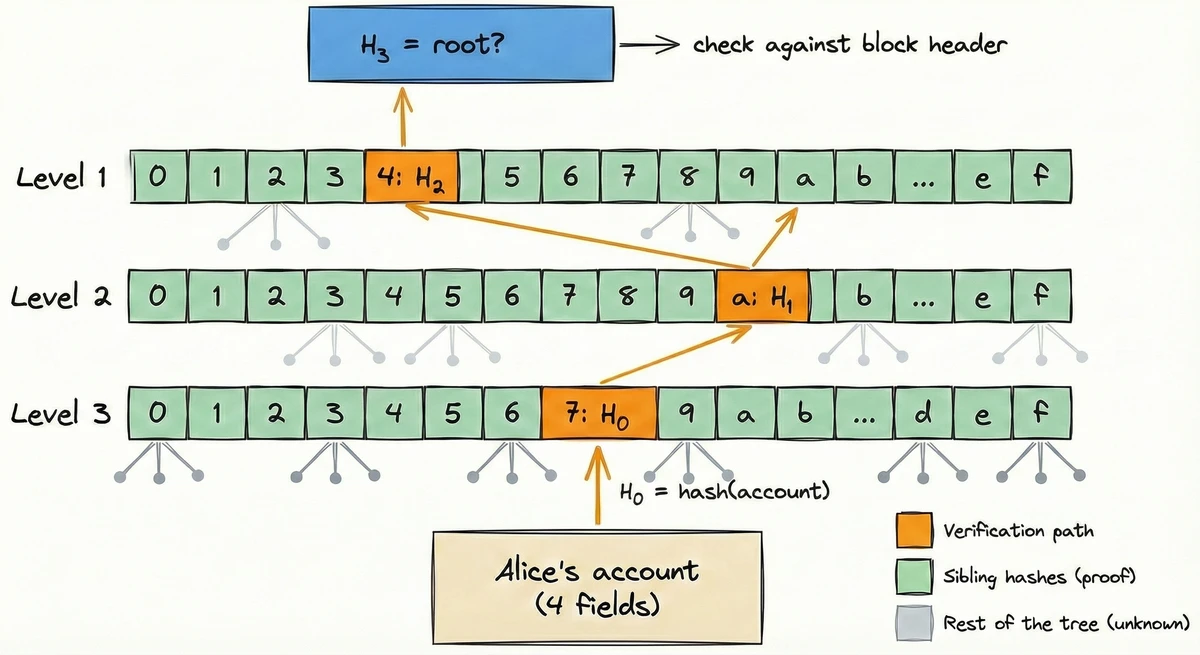
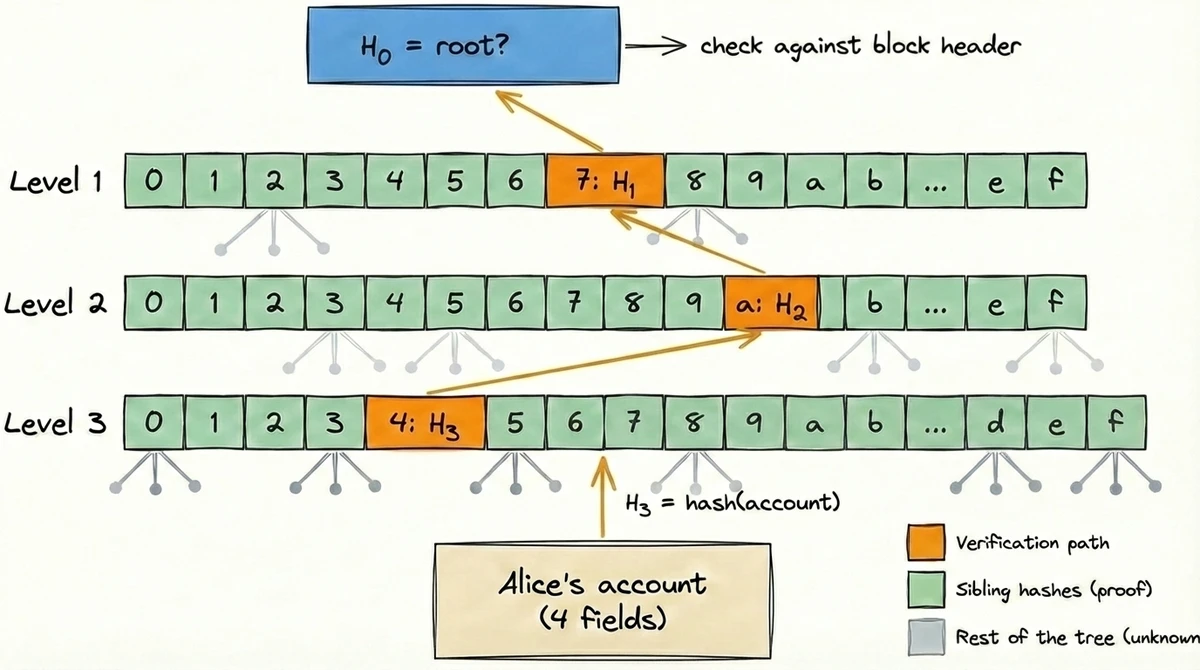
Fix factual errors and update Merkle proof diagram in MPT post
Key corrections: trie keys are keccak256-hashed addresses (depth 64,
not 40), keccak256 is pre-standardization SHA-3 (not a variant),
nonce/codeHash/storageRoot descriptions now accurate for both account
types, proof indexing consistent between formal math and walkthrough,
worst-case proof size updated to ~30 KB, Verkle proof size corrected
to <150 bytes, ~3 KB citation repointed to EIP spec. Also: "hard fork"
→ "network upgrade", timeline hedge, and regenerated merkle-proof.webp
with corrected H₀–H₃ labeling.

diff --git a/content/blog/ethereum-merkle-patricia-trie.md b/content/blog/ethereum-merkle-patricia-trie.md
@@ -15,7 +15,7 @@ social_media_card = "/img/merkle-patricia-trie-banner.webp"
 
 Ethereum is the second-largest blockchain by market cap, securing hundreds of billions of dollars in value. Everyone knows it's a distributed ledger. But how does it actually store all that data? Hundreds of millions of accounts. Smart contracts with their own persistent storage: token balances, NFT ownership records, DeFi positions. Over 100 GB of state, replicated across nearly a million validators worldwide, growing every day. The answer is a data structure called the Merkle Patricia Trie.
 
-That's about to change. The [Hegota hard fork](https://ethereum-magicians.org/t/eip-8081-hegota-network-upgrade-meta-thread/26876) (EIP-8081), currently in planning, aims to migrate Ethereum's state to a new structure called Verkle trees. It would be the biggest change to how Ethereum represents state since genesis. But to understand why it's being considered, we first need to understand what's there today, and why it's hitting its limits.
+That may soon change. The [Hegota network upgrade](https://ethereum-magicians.org/t/eip-8081-hegota-network-upgrade-meta-thread/26876) (EIP-8081), currently in planning, aims to migrate Ethereum's state to a new structure called Verkle trees. It would be the biggest change to how Ethereum represents state since genesis. But to understand why it's being considered, we first need to understand what's there today, and why it's hitting its limits.
 
 ## The World State
 
@@ -23,10 +23,10 @@ Ethereum maintains a **world state**: a key-value store where each key is an add
 
 There are two account types. **Externally owned accounts** (EOAs) are controlled by private keys and can initiate transactions. **Contract accounts** hold code and are triggered by transactions. Both types share the same four data fields:
 
-- **nonce**: a counter that increments with each transaction
+- **nonce**: for EOAs, the number of transactions sent; for contracts, the number of contracts created
 - **balance**: native ETH held[^1]
-- **codeHash**: hash of the account's bytecode (empty for EOAs)
-- **storageRoot**: hash pointing to the contract's storage (empty for EOAs)
+- **codeHash**: hash of the account's bytecode (hash of empty bytecode for EOAs)
+- **storageRoot**: hash pointing to the contract's storage (empty trie hash for EOAs)
 
 Contracts separate storage from code. Storage (token balances, ownership records, configuration) lives in its own key-value store, nested within the world state via `storageRoot`. Code is stored on-chain but outside the world state, referenced by `codeHash`. We'll revisit this nested storage when we discuss proofs.
 
@@ -50,17 +50,17 @@ A tree fixes this. Each node's hash is computed from its children's hashes. Chan
 
 Alice wants to check her balance without trusting anyone. She can't store 100+ GB of state. With a flat key-value store, the only way to verify a value is to recompute the commitment yourself, which requires having the entire state.
 
-A tree fixes this too. To prove a value exists, the prover provides the path from that leaf to the root, plus enough information (a proof) at each level to recompute the hashes. Alice (the verifier) can then reconstructs the root hash from this small proof and checks it against the known root. We'll see exactly how this works when we discuss proofs.
+A tree fixes this too. To prove a value exists, the prover provides the path from that leaf to the root, plus enough information (a proof) at each level to recompute the hashes. Alice (the verifier) can then reconstruct the root hash from this small proof and checks it against the known root. We'll see exactly how this works when we discuss proofs.
 
 ## Tries: Keys as Paths
 
 We've established that we need a tree. So we have a key-value store (addresses → accounts) to organize into a tree. How? By using a **trie** (pronounced "try," from re**trie**val).
 
-**A trie uses the key itself as the path through the tree.** Each character in the key determines which branch to take. For an address like `0x4a7f...`, you start at the root, branch on `4`, then `a`, then `7`, then `f`, and so on until you reach the account data. You don't store keys explicitly; the path *is* the key.
+**A trie uses the key itself as the path through the tree.** Each character in the key determines which branch to take. For a hex key like `4a7f...`, you start at the root, branch on `4`, then `a`, then `7`, then `f`, and so on until you reach the stored value. You don't store keys explicitly; the path *is* the key.
 
-<img src="/img/trie-structure.webp" alt="A hexary trie where addresses become paths: the root branches on hex digits, and following the digits of an address leads to the account data at the leaves. An extension node compresses a chain of single-child branches into one node (the Patricia optimization).">
+<img src="/img/trie-structure.webp" alt="A hexary trie where hashed addresses become paths: the root branches on hex digits, and following the digits of a hashed address leads to the account data at the leaves. An extension node compresses a chain of single-child branches into one node (the Patricia optimization).">
 
-Ethereum uses a **hexary** trie: one child per hex digit (0-F), giving a maximum **width** of 16. The **depth** depends on key length. An Ethereum address is 20 bytes (40 hex characters), so the world state trie has a maximum depth of 40. Contract storage tries (referenced by `storageRoot`) use 32-byte keys (64 hex characters), so their maximum depth is 64. The **Patricia** variant used by Ethereum compresses the trie by collapsing chains of nodes that have only one child into a single node.
+Ethereum uses a **hexary** trie: one child per hex digit (0-F), giving a maximum **width** of 16. The **depth** depends on key length. Before insertion, each address is hashed with keccak256, producing a 32-byte key (64 hex digits). This prevents attackers from crafting addresses that create pathologically unbalanced branches. Contract storage keys are hashed the same way. Both tries have a maximum depth of 64. The **Patricia** variant used by Ethereum compresses the trie by collapsing chains of nodes with only one child into a single node (aka extension node).
 
 ## Merkle Patricia Tries
 
@@ -68,7 +68,7 @@ We have the trie structure. Now we can add the **Merkle** part.
 
 In a plain trie, each node represents a hex digit in the key. In a Merkle trie, **each node also has a hash computed from its children's hashes**. Change any leaf, and every node on the path to the root gets a new hash.
 
-How is each node's hash computed? For a branch node, combine references to all 16 children (empty for missing children) and hash the result with keccak256, Ethereum's hash function (a variant of SHA-3). The output is a single 32-byte hash.
+How is each node's hash computed? For a branch node, combine references to all 16 children (empty for missing children) and hash the result with keccak256, Ethereum's hash function (the pre-standardization version of what became SHA-3). The output is a single 32-byte hash.
 
 <img src="/img/merkle-hash-propagation.webp" alt="Merkle tree showing hash propagation: each parent's hash is computed from its children's hashes, with color-coded levels showing the recursive pattern">
 
@@ -76,7 +76,7 @@ The root hash commits to the entire state, which goes into every block header. A
 
 Why does this work? **Collision resistance**. It's computationally infeasible to find two different states that produce the same keccak256 root. The root hash uniquely identifies the state.
 
-The actual Ethereum implementation is more complex: RLP encoding to serialize nodes before hashing, three node types (branch, leaf, and extension) where extension nodes implement the Patricia compression.
+The actual Ethereum implementation is more complex: RLP encoding to serialize nodes before hashing, different arrays for different node types (branch, leaf, and extension), flags for even/odd path lengths.
 
 <details>
 <summary>More on the implementation</summary>
@@ -101,7 +101,7 @@ The Merkle structure offers an alternative. Alice (**the verifier**) stores just
 
 ### Proof and Verification
 
-Consider a trie of depth $d$ and a path $k = (k_0, k_1, \ldots, k_{d-1})$ where each $k_i$ is a hex digit in the account's address. To prove the value at this path, the prover provides:
+Consider a trie of depth $d$ and a path $k = (k_0, k_1, \ldots, k_{d-1})$ where each $k_i$ is a hex digit in the account's hashed key. To prove the value at this path, the prover provides:
 
 - The leaf value $v$ (all four account fields)
 - At each depth $i$, up to 15 sibling hashes $S_i = \lbrace h_{i,j} : j \neq k_i \rbrace$
@@ -121,13 +121,13 @@ If $H_0$ matches the state root, the proof is valid. Note that the prover must s
 <details>
 <summary>Walkthrough</summary>
 
-For address `0x4a7...`, the path is $k = (4, a, 7)$. The proof contains Alice's account data plus up to 45 sibling hashes (15 at each of the 3 levels). Verification proceeds bottom-up:
+Suppose hashing Alice's address produces a key starting with `7a4...`. In a simplified 3-level trie, the path is $k = (7, a, 4)$. The proof contains Alice's account data plus up to 45 sibling hashes (15 at each of the 3 levels). Verification proceeds bottom-up:
 
-1. Hash the account data → $H_0$
-2. Slot $H_0$ into position 7 among its siblings, hash all 16 → $H_1$
-3. Slot $H_1$ into position `a` among its siblings, hash all 16 → $H_2$
-4. Slot $H_2$ into position `4` among its siblings, hash all 16 → $H_3$
-5. Check: does $H_3$ match the state root in the block header?
+1. Hash the account data → $H_3$
+2. Slot $H_3$ into position `4` among its siblings, hash all 16 → $H_2$
+3. Slot $H_2$ into position `a` among its siblings, hash all 16 → $H_1$
+4. Slot $H_1$ into position `7` among its siblings, hash all 16 → $H_0$
+5. Check: does $H_0$ match the state root in the block header?
 
 </details>
 
@@ -145,7 +145,7 @@ Currently the world state [grows by roughly a gigabyte per week](https://www.the
 
 But what if validators didn't store state at all? Instead of reading from disk, they could receive proofs for every value a block touches. The same trick Alice used, scaled up.
 
-The problem is proof size. Each proof requires sibling hashes at every level: 15 siblings × 40 levels × 32 bytes ≈ 19 KB worst case, [\~3 KB on average](https://vitalik.eth.limo/general/2021/06/18/verkle.html). With current blocks using [\~30M gas](https://etherscan.io/chart/gasused) and cold state reads costing [2100 gas each](https://eips.ethereum.org/EIPS/eip-2929),[^2] a block easily touches thousands of values. At \~3 KB average, that's several MB of additional bandwidth per block. 10 MB incremental network I/O per block would be over 2 TB/month per validator: the kind of overhead that pushes solo stakers toward data centers.
+The problem is proof size. Each proof requires sibling hashes at every level: 15 siblings × 64 levels × 32 bytes ≈ 30 KB worst case, [\~3 KB on average](https://notes.ethereum.org/@vbuterin/verkle_tree_eip). With current blocks using [\~30M gas](https://etherscan.io/chart/gasused) and cold state reads costing [2100 gas each](https://eips.ethereum.org/EIPS/eip-2929),[^2] a block easily touches thousands of values. At \~3 KB average, that's several MB of additional bandwidth per block. 10 MB incremental network I/O per block would be over 2 TB/month per validator: the kind of overhead that pushes solo stakers toward data centers.
 
 So proof size is a binding constraint. Shrink the proofs, and stateless validation becomes more viable.
 
@@ -153,7 +153,7 @@ So proof size is a binding constraint. Shrink the proofs, and stateless validati
 
 ## What's Next
 
-Enter Verkle trees, the structure proposed for the Hegota hard fork. They replace sibling hashes with **polynomial commitments**, shrinking proofs from several KB to around 100 bytes each.
+Enter Verkle trees, the structure proposed for the Hegota network upgrade. They replace sibling hashes with **polynomial commitments**, shrinking proofs from several KB to less than 150 bytes each.
 
 Part 2 will cover how Verkle trees work and the cryptography behind them: polynomial commitments, KZG proofs, and how they achieve small proofs without sacrificing security. The math builds on finite fields and elliptic curves, which I covered in [The Math Behind Your Private Key](@/blog/math-behind-private-key.md).
 
